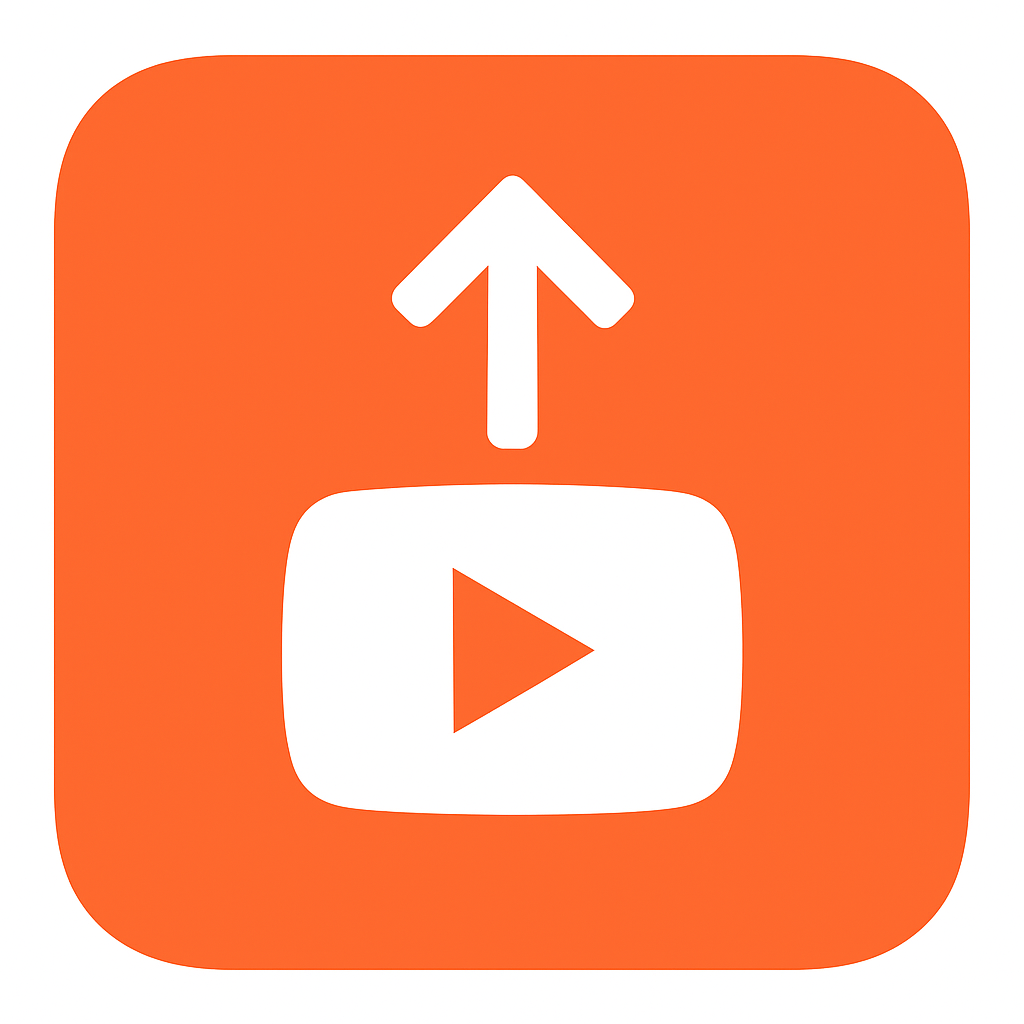
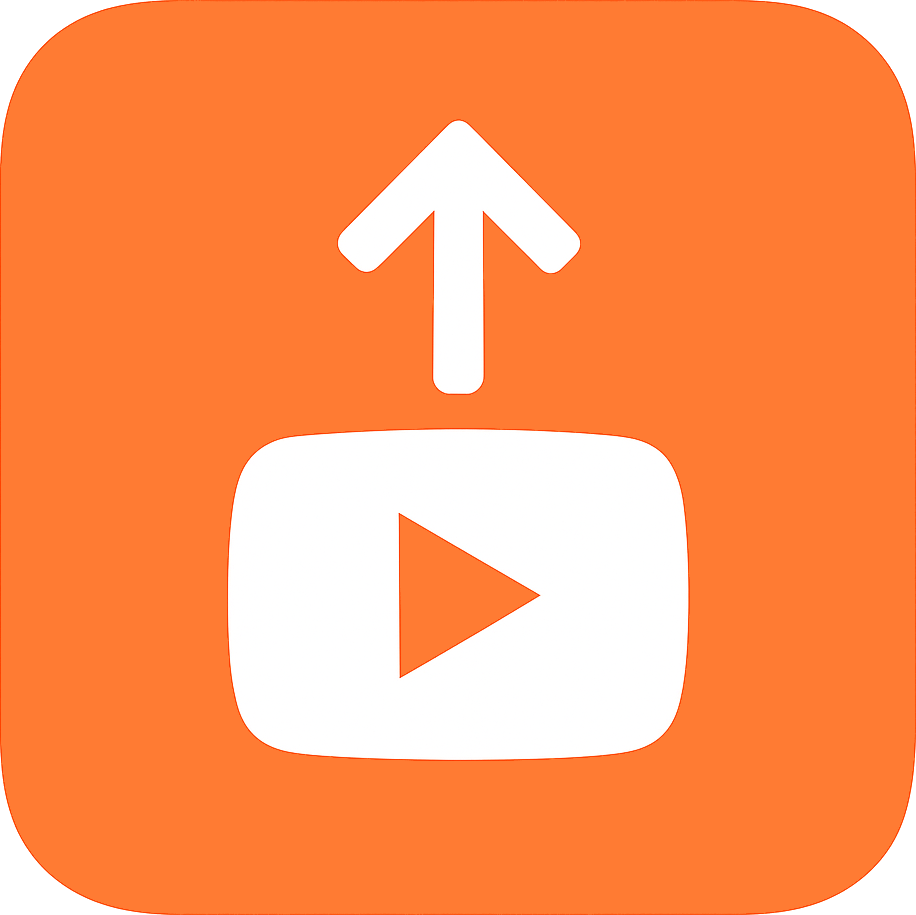
Fix: Desktop-Integration nach DICTATE-Muster
Kritische Änderungen für funktionierende Desktop-Integration:

GUI-Änderungen:
- tk.Tk(className='YouTubeUploadTool') statt ttk.Window()
- ttk.Style(theme=...) separat für Theme-Anwendung
- Type hints angepasst: tk.Tk statt ttk.Window
- Grund: ttk.Window unterstützt kein className Parameter!

Desktop-Integration:
- Neues start_desktop.sh Script nach DICTATE-Vorbild
  - Robuste Conda-Aktivierung
  - Environment-Verifikation
  - Explizite Python-Pfade
- youtube-upload-tool.desktop: Verwendet start_desktop.sh
- StartupWMClass=YouTubeUploadTool für Icon-Gruppierung

Optimierung:
- YT_upl.png: Icon optimiert (933KB -> 128KB)

Folgt Best Practices aus _AA_DICTATE/docs/DESKTOP_INTEGRATION.md

🤖 Generated with [Claude Code](https://claude.com/claude-code)

Changed region(s): [[0.0, 0.0, 1.0, 1.0], [0.2445, 0.1224, 0.7642, 0.8568], [0.4279, 0.5508, 0.5808, 0.7344]]

diff --git a/app/gui_batch.py b/app/gui_batch.py
@@ -216,15 +216,12 @@ class BatchUploadApp:
 
     THUMB_DISPLAY_WIDTH = 180
 
-    def __init__(self, root: ttk.Window):
+    def __init__(self, root: tk.Tk):
         self.root = root
         self.root.title("YouTube Upload Tool - Batch Mode")
         self.root.geometry("1000x700")
         self.root.minsize(900, 650)
-        try:
-            self.root.wm_class("YouTubeUploadTool")
-        except tk.TclError:
-            pass
+        # className is already set in run_app() via tk.Tk(className=...)
 
         # State
         self.videos: List[VideoItem] = []
@@ -1455,6 +1452,12 @@ class BatchUploadApp:
 
 def run_app():
     """Startet Batch-Upload-App."""
-    app = ttk.Window(themename=DEFAULT_THEME)
+    # Use tk.Tk with className for proper desktop integration
+    # (ttk.Window doesn't support className parameter)
+    app = tk.Tk(className='YouTubeUploadTool')
+
+    # Apply ttkbootstrap theme via Style
+    style = ttk.Style(theme=DEFAULT_THEME)
+
     BatchUploadApp(app)
     app.mainloop()
